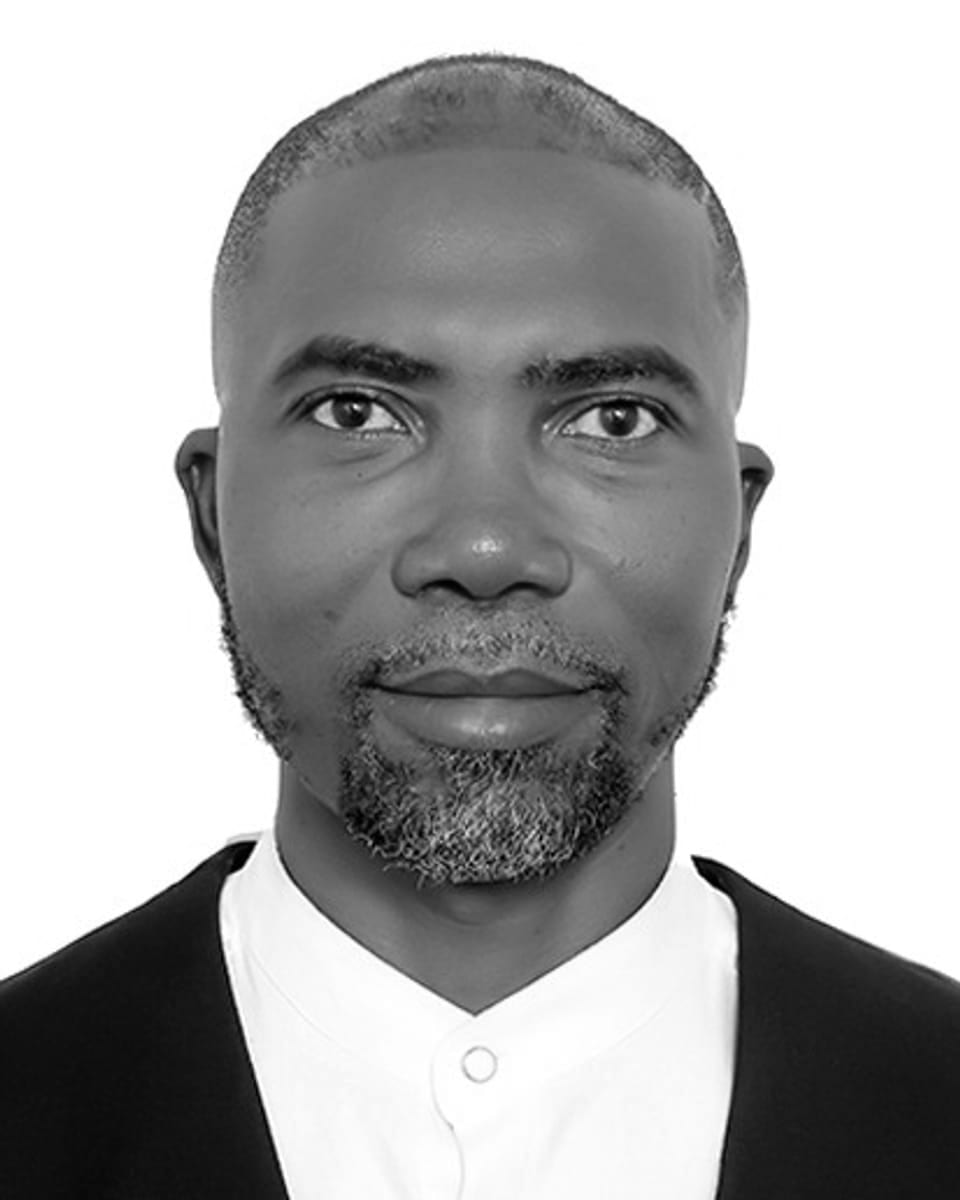
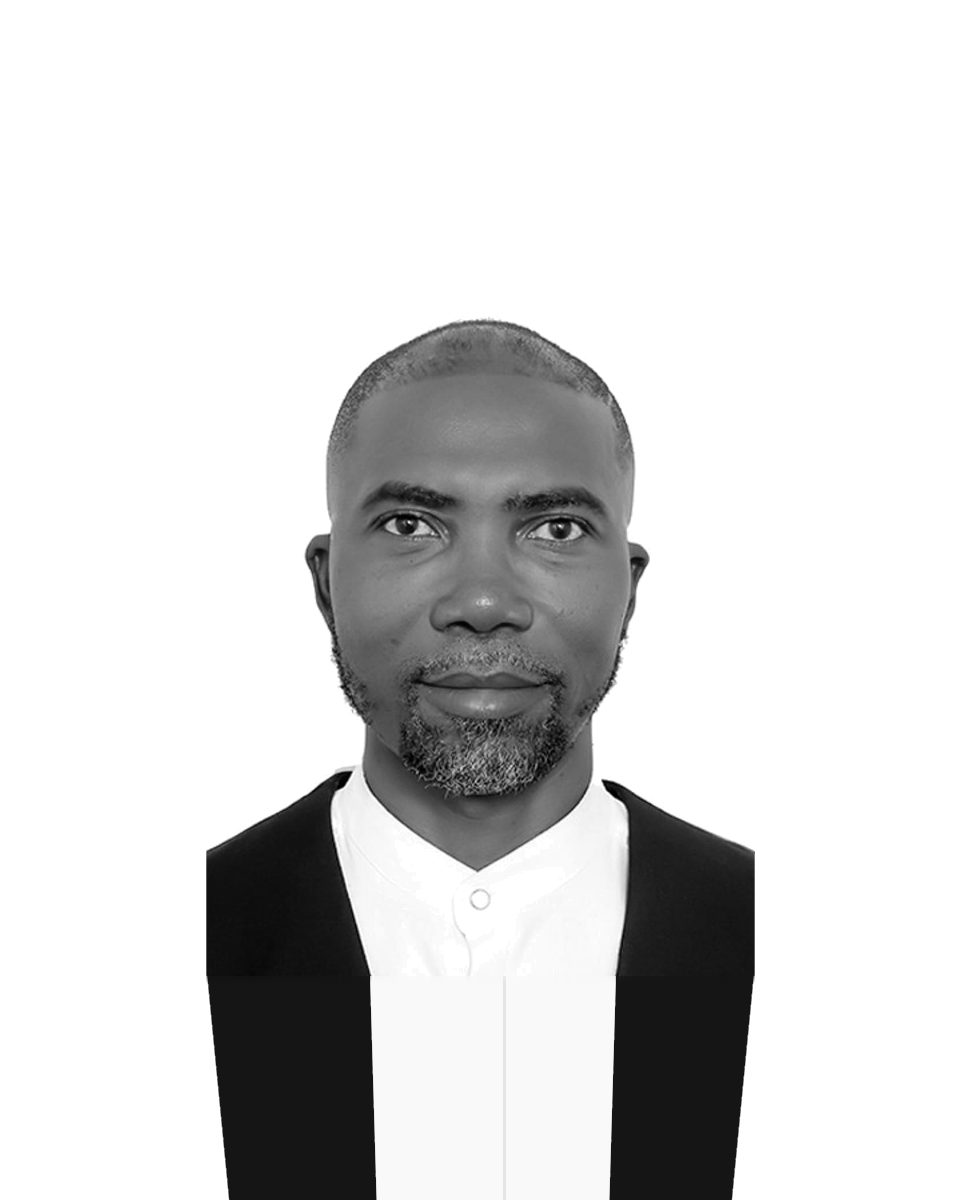
About: keep team faces in frame
Shift imagePosition on nine team photos so hover and the wide mobile
grid no longer clip faces. Recrop Joseph, Sthella and Faithful so their
heads fit the 320x200 hover window, and so Faithful's crown clears the
pill on the 130x200 grid card.

diff --git a/lib/about-team.ts b/lib/about-team.ts
@@ -18,6 +18,7 @@ export const aboutTeam = [
     role: "Founder & President",
     quote: "Pioneering digital leader advancing technology for climate-vulnerable communities.",
     image: photo("genevieve-leveille.jpg"),
+    imagePosition: "center 22%",
     place: { lat: 40.71, lng: -74.01 },
   },
   {
@@ -43,6 +44,7 @@ export const aboutTeam = [
     role: "Creative Director",
     quote: "Creative strategist using art and storytelling for social change.",
     image: photo("tochukwu-macfoy.jpg"),
+    imagePosition: "center 22%",
     place: { lat: 11.2, lng: 12.0 },
   },
   {
@@ -84,6 +86,7 @@ export const aboutTeam = [
     role: "Sponsors Relations Director",
     quote: "Partnership leader connecting global capital with climate action.",
     image: photo("nathan-khrupalo.jpg"),
+    imagePosition: "center 13%",
   },
   {
     id: "joseph-raymond-hammond",
@@ -99,6 +102,7 @@ export const aboutTeam = [
     role: "Interactive Experience Advisor",
     quote: "Award-winning artist pioneering immersive digital storytelling.",
     image: photo("sutu-campbell.jpg"),
+    imagePosition: "center 20%",
     place: { lat: -33.87, lng: 151.21 },
   },
   {
@@ -107,6 +111,7 @@ export const aboutTeam = [
     role: "UX Designer",
     quote: "Product designer creating intuitive, accessible digital experiences.",
     image: photo("anirudha-ghosh.jpg"),
+    imagePosition: "center 30%",
     place: { lat: 22.6, lng: 79.0 },
   },
   {
@@ -115,6 +120,7 @@ export const aboutTeam = [
     role: "Web Developer",
     quote: "Web developer converting curated designs into functional web products.",
     image: photo("faithful-kobina-quayson.jpg"),
+    imagePosition: "center 40%",
     place: { lat: 6.8, lng: -2.0 },
   },
   {
@@ -123,6 +129,7 @@ export const aboutTeam = [
     role: "Head of Technology",
     quote: "Technology strategist powering secure, connected global experiences.",
     image: photo("rowland-jones.jpg"),
+    imagePosition: "center 12%",
     place: { lat: 5.6, lng: -0.19 },
   },
   {
@@ -155,6 +162,7 @@ export const aboutTeam = [
     role: "Brand Designer",
     quote: "Designer who loves turning ideas into clear visual solutions.",
     image: photo("gift-adedayo.jpg"),
+    imagePosition: "center 16%",
     place: { lat: 8.6, lng: 6.4 },
   },
   {
@@ -163,6 +171,7 @@ export const aboutTeam = [
     role: "member",
     quote: "...",
     image: photo("naquetta-ricks.jpg"),
+    imagePosition: "center 12%",
     place: { lat: 39.83, lng: -98.58 },
   },
   // {
